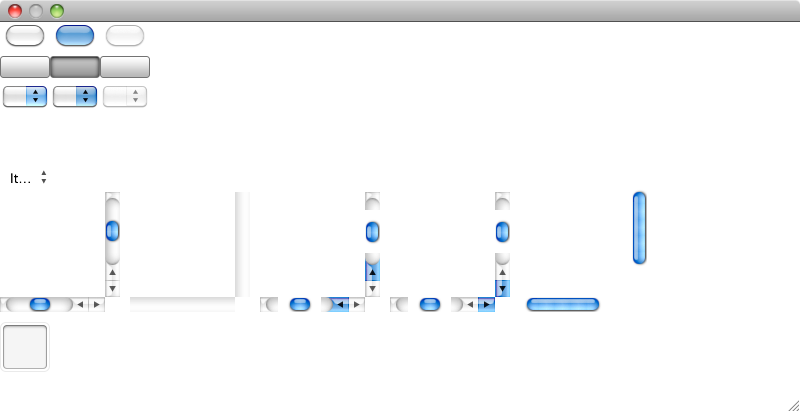
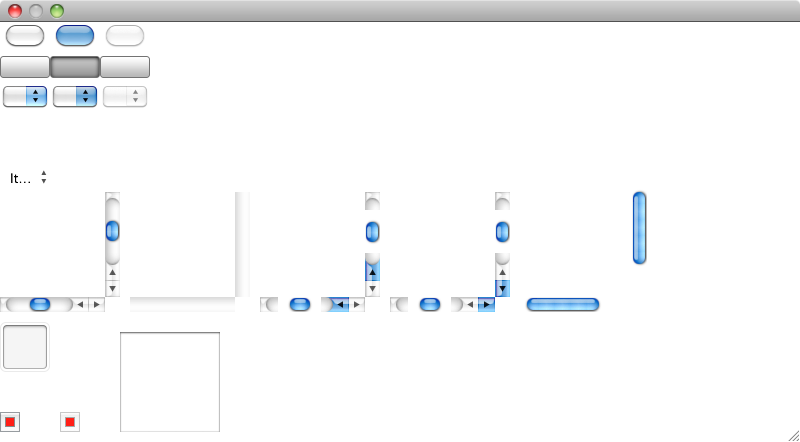
skin for XP-236
add TextArea
fix move window

update cargo&jetty

improve messages in transactions history

fix editableTextContainerManager — must be "No insertion point when no focus"

git-svn-id: https://svn.rit.com/XpressPages/core@2655 ea2dfd8a-b55e-0410-94a3-d421f5a25116

diff --git a/AssetApp/AssetAppDelegate.m b/AssetApp/AssetAppDelegate.m
@@ -157,7 +157,11 @@
 	[colorWell2 setEnabled:NO];
 	[contentView addSubview:colorWell2];
 	
-	
+	controlFrame.size.width = 100;
+	controlFrame.size.height = 100;
+	controlFrame.origin.x += 60;
+	NSTextField *textField = [[NSTextField alloc] initWithFrame:controlFrame];
+	[contentView addSubview:textField];
 	
 	return;
 	
